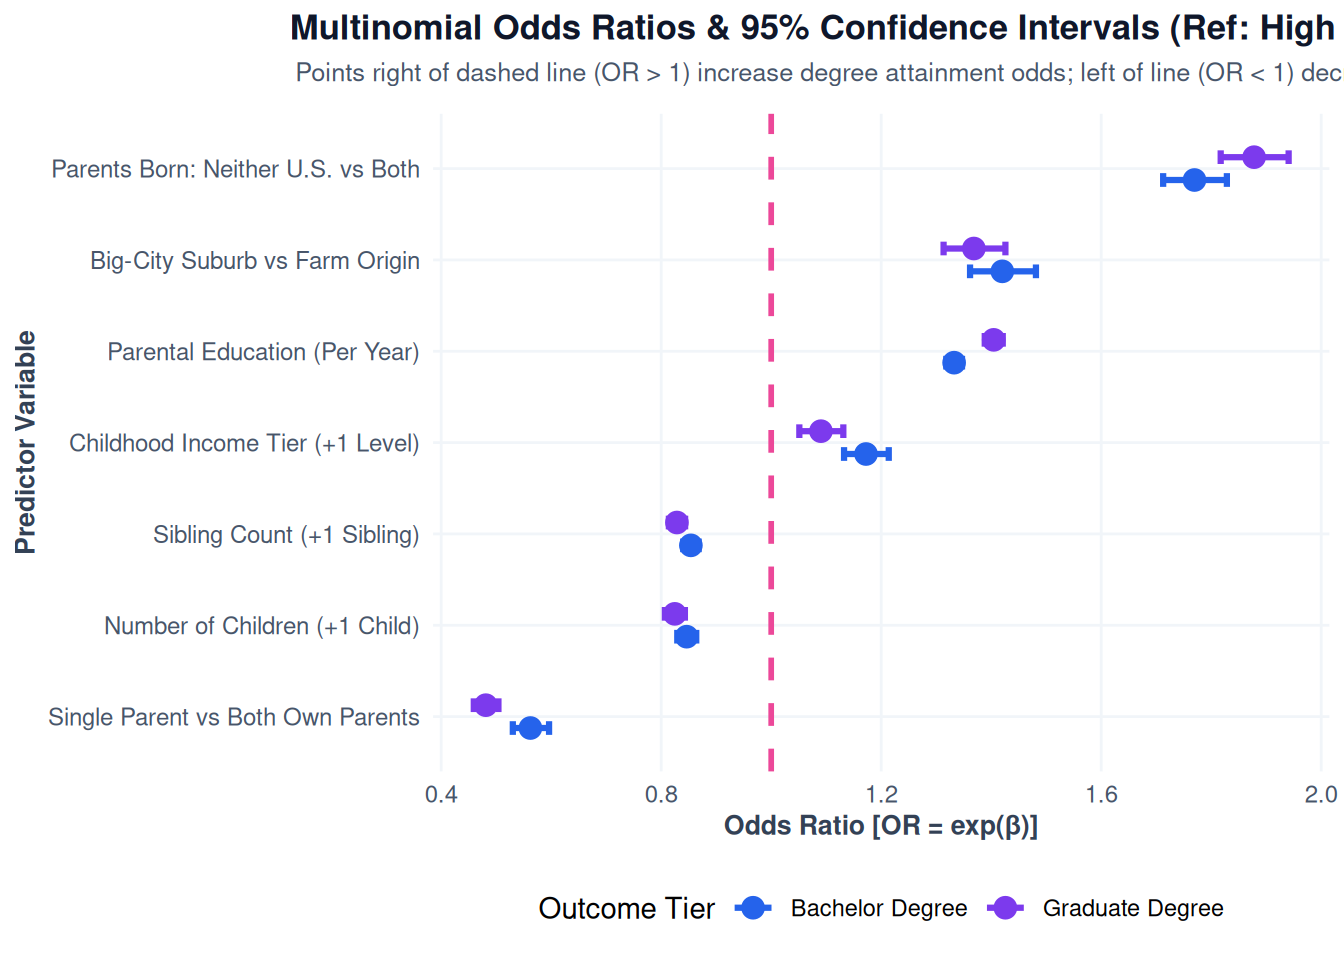
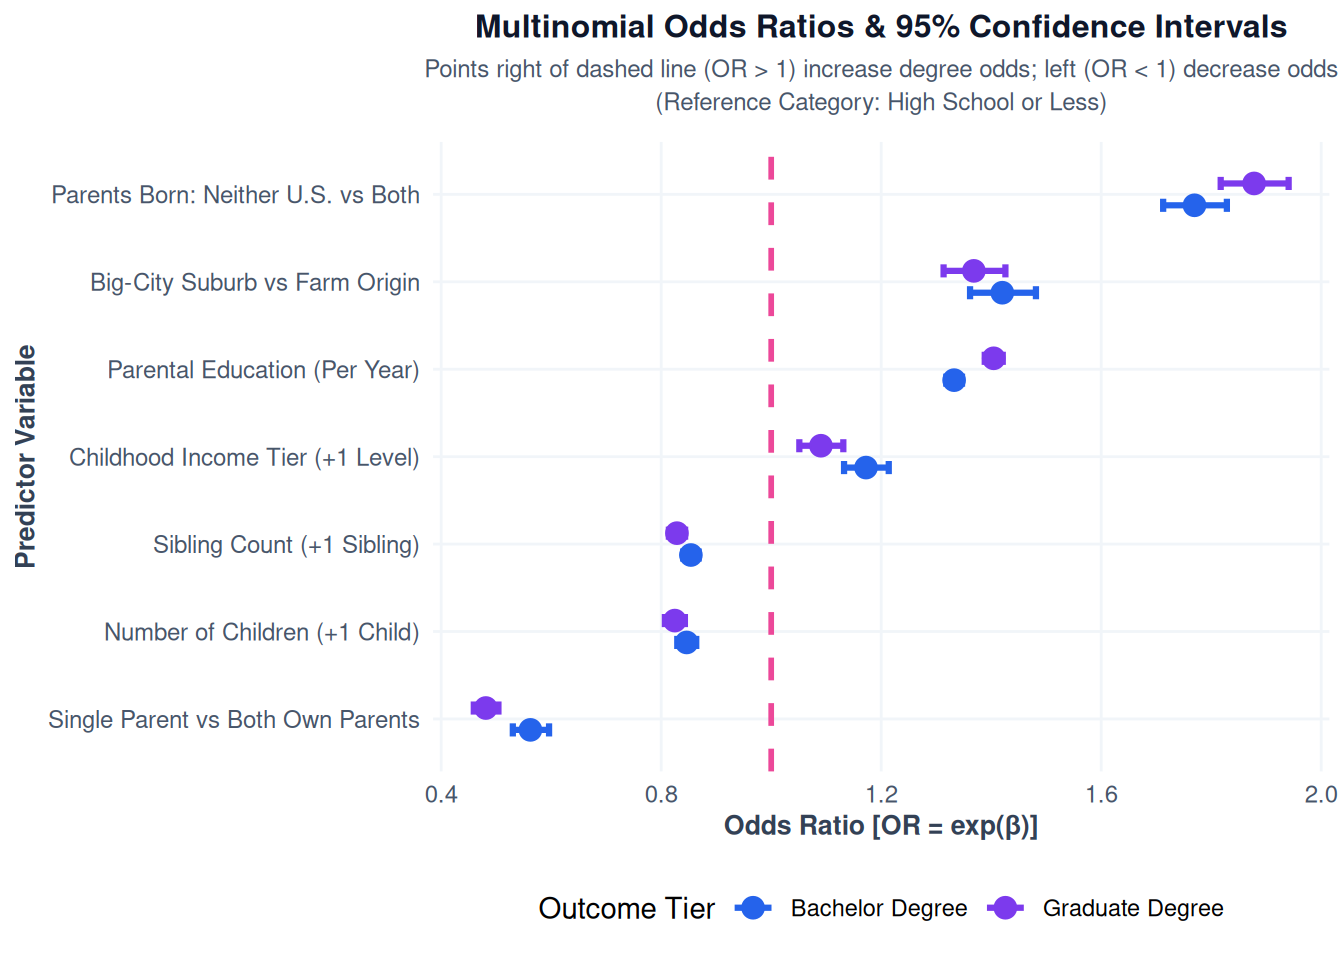
seventh version

diff --git a/_site/model.html b/_site/model.html
@@ -197,12 +197,12 @@ Formal Data Generating Mechanisms, Likelihood Ratio Tests, 95% Confidence Interv
 </section>
 <section id="model-estimation-95-confidence-intervals" class="level2">
 <h2 class="anchored" data-anchor-id="model-estimation-95-confidence-intervals">2. Model Estimation &amp; 95% Confidence Intervals</h2>
+<blockquote class="blockquote">
+<p><strong>Note</strong>: The following tables (3.2 &amp; 3.3) are shortened tables with only the most statistically significant covariates. The complete parameter table across all predictors and outcome tiers can be found in Section 4 of the <a href="./sources.html">Sources</a> tab.</p>
+</blockquote>
 <section id="final-multinomial-logistic-model-parameters" class="level3">
 <h3 class="anchored" data-anchor-id="final-multinomial-logistic-model-parameters">2.1 Final Multinomial Logistic Model Parameters</h3>
 <p>We estimate multinomial parameters and calculate Odds Ratios (<span class="math inline">\(\text{OR} = \exp(\beta)\)</span>) with exact 95% Confidence Intervals using <code>broom::tidy(conf.int = TRUE, exponentiate = TRUE)</code>.</p>
-<blockquote class="blockquote">
-<p><strong>Note</strong>: Table 3.2 below is a shortened summary displaying primary predictors for Bachelor’s degree attainment. The complete parameter table across all predictors and outcome tiers can be found in Section 4 of the <a href="./sources.html">Data Sources &amp; References</a> tab.</p>
-</blockquote>
 <div class="cell">
 <div class="cell-output-display">
 <table class="caption-top table table-sm table-striped small">
@@ -278,13 +278,12 @@ Formal Data Generating Mechanisms, Likelihood Ratio Tests, 95% Confidence Interv
 </table>
 </div>
 </div>
+<p><strong>What the Numbers Mean:</strong> Each Odds Ratio (OR) measures the association between a covariate and an outcome. An OR &gt; 1 indicates a higher likelihood of the outcome (specifically, a <span class="math inline">\((OR - 1) \times 100\%\)</span> increase), while an OR &lt; 1 indicates a lower likelihood.</p>
+<p><strong>Example:</strong> In this table, each additional year of parental education is associated with a 33.3% higher chance of attaining a Bachelor’s degree.</p>
 <hr>
 </section>
 <section id="ols-baseline-model-parameters" class="level3">
 <h3 class="anchored" data-anchor-id="ols-baseline-model-parameters">2.2 OLS Baseline Model Parameters</h3>
-<blockquote class="blockquote">
-<p><strong>Note</strong>: Table 3.3 below is a shortened summary of key parameters. The complete OLS model parameter table across all 19 background covariates can be found in Section 4 of the <a href="./sources.html">Data Sources &amp; References</a> tab.</p>
-</blockquote>
 <div class="cell">
 <div class="cell-output-display">
 <table class="caption-top table table-sm table-striped small">
@@ -352,12 +351,17 @@ Formal Data Generating Mechanisms, Likelihood Ratio Tests, 95% Confidence Interv
 </table>
 </div>
 </div>
+<p><strong>What the Numbers Mean:</strong> Each Estimate (<span class="math inline">\(\beta\)</span>) measures the slope between a covariate and the outcome. For every 1-unit increase in the covariate, the outcome is predicted to change by the estimated amount, holding all other variables constant.</p>
+<p><strong>Example:</strong> In this table, a 1-year increase in parental education is associated with 0.326 additional years of education.</p>
 <hr>
 </section>
 </section>
 <section id="visualizing-uncertainty" class="level2">
 <h2 class="anchored" data-anchor-id="visualizing-uncertainty">3. Visualizing Uncertainty</h2>
-<p>To evaluate parameter estimates and quantify uncertainty visually, we build a point-range error-bar plot displaying multinomial Odds Ratios (<span class="math inline">\(\text{OR} = \exp(\beta)\)</span>) alongside exact 95% Confidence Interval bounds for predicting <strong>Bachelor Degree</strong> and <strong>Graduate Degree</strong> attainment relative to High School baseline.</p>
+<p>To evaluate parameter estimates and quantify uncertainty visually, we construct point-range error-bar plots for both statistical models.</p>
+<section id="multinomial-logistic-model-uncertainty" class="level3">
+<h3 class="anchored" data-anchor-id="multinomial-logistic-model-uncertainty">3.1 Multinomial Logistic Model Uncertainty</h3>
+<p>Figure 3.1 illustrates the Odds Ratios (<span class="math inline">\(\text{OR} = \exp(\beta)\)</span>) and exact 95% Confidence Intervals for predicting <strong>Bachelor Degree</strong> and <strong>Graduate Degree</strong> attainment relative to the High School baseline tier.</p>
 <div class="cell">
 <div class="cell-output-display">
 <div class="quarto-figure quarto-figure-center">
@@ -370,6 +374,31 @@ Formal Data Generating Mechanisms, Likelihood Ratio Tests, 95% Confidence Interv
 </div>
 <hr>
 </section>
+<section id="ols-regression-model-uncertainty" class="level3">
+<h3 class="anchored" data-anchor-id="ols-regression-model-uncertainty">3.2 OLS Regression Model Uncertainty</h3>
+<p>Figure 3.2 displays continuous linear parameter estimates (<span class="math inline">\(\beta\)</span>) and 95% Confidence Intervals for predicting total completed schooling years (<span class="math inline">\(Y_{\text{years}}\)</span>). In linear OLS regression, the null baseline hypothesis corresponds to <span class="math inline">\(\beta = 0\)</span> (no linear effect on total schooling years).</p>
+<div class="cell">
+<div class="cell-output-display">
+<div class="quarto-figure quarto-figure-center">
+<figure class="figure">
+<p><img src="model_files/figure-html/ols-forest-plot-1.png" class="img-fluid figure-img" width="672"></p>
+<figcaption>Figure 3.2: OLS Linear Regression Parameter Estimates (β) &amp; 95% Confidence Intervals for Completed Schooling Years.</figcaption>
+</figure>
+</div>
+</div>
+</div>
+<hr>
+</section>
+<section id="how-combining-factors-influences-estimation-prediction-uncertainty" class="level3">
+<h3 class="anchored" data-anchor-id="how-combining-factors-influences-estimation-prediction-uncertainty">3.3 How Combining Factors Influences Estimation &amp; Prediction Uncertainty</h3>
+<ol type="1">
+<li><p><strong>Precision of OLS Continuous Parameters</strong>: Because our analysis utilizes a large national sample (<span class="math inline">\(N = 48,360\)</span>), individual linear slope parameters in the OLS model exhibit tight confidence bounds. This confirms that sampling noise is minimal and the direction of key socio-demographic effects is highly precise.</p></li>
+<li><p><strong>Multicollinearity &amp; Controlled Independent Effects</strong>: Socio-demographic origin traits are naturally correlated—parents with higher educational attainment also tend to earn higher relative household income and raise smaller families. By combining multiple factors simultaneously into a single multivariate specification, the model controls for confounding covariance.</p></li>
+<li><p><strong>Cumulative Prediction Uncertainty</strong>: When combining multiple predictors to generate individual point estimates (as demonstrated in Section 4), uncertainty accumulates across all model terms. While structural childhood variables account for significant macro-level educational inequality (achieving a <span class="math inline">\(72.3\%\)</span> degree classification accuracy), individual-level variance remains (<span class="math inline">\(\text{OLS } R^2 \approx 0.28\)</span>). This unaccounted variance represents unmeasured factors such as individual academic motivation, school quality, peer dynamics, and random life trajectory events.</p></li>
+</ol>
+<hr>
+</section>
+</section>
 <section id="the-dgm-in-action" class="level2">
 <h2 class="anchored" data-anchor-id="the-dgm-in-action">4. The DGM in Action</h2>
 <p>To demonstrate how our statistical model works in practice, we construct two contrasting individual profiles with different childhood socio-demographic backgrounds and use the multinomial model to predict their exact likelihood of achieving a Bachelor’s degree (and other degree tiers), alongside OLS continuous schooling predictions.</p>
@@ -378,9 +407,9 @@ Formal Data Generating Mechanisms, Likelihood Ratio Tests, 95% Confidence Interv
 <table class="caption-top table table-sm table-striped small">
 <caption>Table 3.4: Model-Predicted Educational Attainment Probabilities &amp; Expected Schooling Years for Two Individual Profiles</caption>
 <colgroup>
-<col style="width: 18%">
-<col style="width: 40%">
-<col style="width: 41%">
+<col style="width: 21%">
+<col style="width: 38%">
+<col style="width: 39%">
 </colgroup>
 <thead>
 <tr class="header">
@@ -392,8 +421,8 @@ Formal Data Generating Mechanisms, Likelihood Ratio Tests, 95% Confidence Interv
 <tbody>
 <tr class="odd">
 <td style="text-align: left;">Childhood Background Characteristics</td>
-<td style="text-align: left;">College-educated parents (16 yrs), Income Far Above Avg (Tier 5), Two parents, Suburban, 1 Sibling</td>
-<td style="text-align: left;">Middle-school parents (9 yrs), Income Far Below Avg (Tier 1), Single parent, Farm origin, 4 Siblings</td>
+<td style="text-align: left;">College-educated parents, Income Far Above Avg, Two parents, Suburban, 1 Sibling</td>
+<td style="text-align: left;">Middle-school parents, Income Far Below Avg, Single parent, Farm origin, 4 Siblings</td>
 </tr>
 <tr class="even">
 <td style="text-align: left;">High School or Less (Multinomial Probability)</td>
@@ -425,8 +454,8 @@ Formal Data Generating Mechanisms, Likelihood Ratio Tests, 95% Confidence Interv
 </div>
 </div>
 <ul>
-<li><strong>Individual A (College-educated parents, Income Tier 5, Two parents, Suburban origin, 1 sibling)</strong>: Driven by high parental education (16 years) and economic stability, this individual has a <strong>39.7% chance</strong> of attaining a Bachelor’s degree, an overall <strong>67.9% chance</strong> of completing college (Bachelor’s or Graduate), and an expected <strong>16.7 total years of schooling</strong> from the OLS model.</li>
-<li><strong>Individual B (Middle-school parents, Income Tier 1, Single parent, Farm origin, 4 siblings)</strong>: Facing cumulative socio-economic headwinds, this individual has only a <strong>5.1% chance</strong> of attaining a Bachelor’s degree (<strong>70.4% chance</strong> of stopping at High School or less), and an expected <strong>11.9 total years of schooling</strong> from the OLS model.</li>
+<li><p><strong>Individual A</strong>: Driven by high parental education (16 years) and economic stability, this individual has a <strong>39.7% chance</strong> of attaining a Bachelor’s degree, an overall <strong>67.9% chance</strong> of completing college (Bachelor’s or Graduate), and an expected <strong>16.7 total years of schooling</strong> from the OLS model.</p></li>
+<li><p><strong>Individual B</strong>: Facing cumulative socio-economic headwinds, this individual has only a <strong>5.1% chance</strong> of attaining a Bachelor’s degree (<strong>70.4% chance</strong> of stopping at High School or less), and an expected <strong>11.9 total years of schooling</strong> from the OLS model.</p></li>
 </ul>
 <hr>
 </section>
@@ -439,7 +468,7 @@ Formal Data Generating Mechanisms, Likelihood Ratio Tests, 95% Confidence Interv
 <p>To evaluate how accurately our model predicts educational outcomes, we test its performance across the <span class="math inline">\(N = 48,360\)</span> survey respondents:</p>
 <ul>
 <li><strong>College Degree Prediction Accuracy (72.3%)</strong>: When predicting whether an individual will successfully earn a <strong>Bachelor’s degree or higher</strong> versus a non-college path, our model achieves <strong>72.3% overall accuracy</strong>.</li>
-<li><strong>What This Means in Plain English</strong>: Imagine taking a room of 100 people. By only looking at basic background information from their childhood—such as their parents’ education level, household income tier, family structure, and sibling count—our model correctly predicts whether <strong>72 out of 100 people</strong> will graduate from college. In social science, where human decisions and personal choices vary widely, a <strong>72.3% accuracy rate</strong> confirms that childhood background factors exert a dominant influence on lifetime educational attainment.</li>
+<li><strong>What This Means</strong>: Imagine taking a room of 100 people. By only looking at basic background information from their childhood—such as their parents’ education level, household income tier, family structure, and sibling count—our model correctly predicts whether <strong>72 out of 100 people</strong> will graduate from college. In social science, where human decisions and personal choices vary widely, a <strong>72.3% accuracy rate</strong> confirms that childhood background factors exert a dominant influence on lifetime educational attainment.</li>
 </ul>
 </section>
 <section id="answer-to-central-predictive-question" class="level4">
@@ -450,19 +479,19 @@ Formal Data Generating Mechanisms, Likelihood Ratio Tests, 95% Confidence Interv
 <ol type="1">
 <li><strong>Parental Education is the Single Strongest Predictor</strong>:
 <ul>
-<li><strong>Accuracy &amp; Effect Size</strong>: Every additional year of parental schooling increases an individual’s odds of earning a Bachelor’s degree by <strong>33.3%</strong> (<span class="math inline">\(\text{OR} = 1.333\)</span>, <span class="math inline">\(95\%\text{ CI: }[1.319, 1.348]\)</span>, <span class="math inline">\(p &lt; 0.001\)</span>) and a Graduate degree by <strong>40.5%</strong> (<span class="math inline">\(\text{OR} = 1.405\)</span>, <span class="math inline">\(95\%\text{ CI: }[1.388, 1.423]\)</span>, <span class="math inline">\(p &lt; 0.001\)</span>).</li>
-<li><strong>Continuous Schooling Impact</strong>: In the OLS linear model, each additional year of parental education directly increases completed schooling by <strong>+0.326 years</strong> (<span class="math inline">\(95\%\text{ CI: }[0.318, 0.333]\)</span>, <span class="math inline">\(p &lt; 0.001\)</span>).</li>
+<li><strong>Multinomial Degree Completion Odds</strong>: Every additional year of parental schooling increases an individual’s odds of earning a Bachelor’s degree by <strong>33.3%</strong> (<span class="math inline">\(\text{OR} = 1.333\)</span>, <span class="math inline">\(95\%\text{ CI: }[1.319, 1.348]\)</span>, <span class="math inline">\(p &lt; 0.001\)</span>) and a Graduate degree by <strong>40.5%</strong> (<span class="math inline">\(\text{OR} = 1.405\)</span>, <span class="math inline">\(95\%\text{ CI: }[1.388, 1.423]\)</span>, <span class="math inline">\(p &lt; 0.001\)</span>).</li>
+<li><strong>OLS Continuous Schooling Impact</strong>: In the linear model, each additional year of parental education directly increases completed schooling by <strong>+0.326 years</strong> (<span class="math inline">\(95\%\text{ CI: }[0.318, 0.333]\)</span>, <span class="math inline">\(p &lt; 0.001\)</span>).</li>
 </ul></li>
 <li><strong>Childhood Household Income &amp; Family Dynamics</strong>:
 <ul>
-<li><strong>Relative Household Income</strong>: Higher childhood relative income (<code>incom16</code>) significantly increases Bachelor’s degree completion odds by <strong>16.8% per income tier</strong> (<span class="math inline">\(\text{OR} = 1.168\)</span>, <span class="math inline">\(95\%\text{ CI: }[1.129, 1.209]\)</span>, <span class="math inline">\(p &lt; 0.001\)</span>) and adds <strong>+0.129 years</strong> of schooling (<span class="math inline">\(p &lt; 0.001\)</span>).</li>
-<li><strong>Single-Parent Family Structure</strong>: Growing up in a single-parent family reduces Bachelor’s degree odds by <strong>43.8%</strong> (<span class="math inline">\(\text{OR} = 0.562\)</span>, <span class="math inline">\(95\%\text{ CI: }[0.530, 0.596]\)</span>, <span class="math inline">\(p &lt; 0.001\)</span>) and reduces total completed schooling by <strong>-0.607 years</strong> (<span class="math inline">\(p &lt; 0.001\)</span>).</li>
-<li><strong>Sibling Size</strong>: Each additional sibling reduces Bachelor’s degree completion odds by <strong>14.6%</strong> (<span class="math inline">\(\text{OR} = 0.854\)</span>, <span class="math inline">\(95\%\text{ CI: }[0.840, 0.868]\)</span>, <span class="math inline">\(p &lt; 0.001\)</span>) and reduces schooling by <strong>-0.182 years per sibling</strong> (<span class="math inline">\(p &lt; 0.001\)</span>).</li>
+<li><strong>Relative Household Income</strong>: Higher childhood relative income significantly increases Bachelor’s degree completion odds by <strong>16.8% per income tier</strong> (<span class="math inline">\(\text{OR} = 1.168\)</span>, <span class="math inline">\(95\%\text{ CI: }[1.129, 1.209]\)</span>, <span class="math inline">\(p &lt; 0.001\)</span>) and adds <strong>+0.129 years</strong> of completed schooling (<span class="math inline">\(95\%\text{ CI: }[0.101, 0.157]\)</span>, <span class="math inline">\(p &lt; 0.001\)</span>).</li>
+<li><strong>Single-Parent Family Structure</strong>: Growing up in a single-parent family reduces Bachelor’s degree completion odds by <strong>43.8%</strong> (<span class="math inline">\(\text{OR} = 0.562\)</span>, <span class="math inline">\(95\%\text{ CI: }[0.530, 0.596]\)</span>, <span class="math inline">\(p &lt; 0.001\)</span>) and reduces total completed schooling by <strong>-0.607 years</strong> (<span class="math inline">\(95\%\text{ CI: }[-0.672, -0.541]\)</span>, <span class="math inline">\(p &lt; 0.001\)</span>).</li>
+<li><strong>Sibling Size</strong>: Each additional sibling reduces Bachelor’s degree completion odds by <strong>14.6%</strong> (<span class="math inline">\(\text{OR} = 0.854\)</span>, <span class="math inline">\(95\%\text{ CI: }[0.840, 0.868]\)</span>, <span class="math inline">\(p &lt; 0.001\)</span>) and reduces total schooling by <strong>-0.182 years per sibling</strong> (<span class="math inline">\(95\%\text{ CI: }[-0.195, -0.170]\)</span>, <span class="math inline">\(p &lt; 0.001\)</span>).</li>
 </ul></li>
 <li><strong>Geographic &amp; Immigrant Origin Dynamics</strong>:
 <ul>
-<li><strong>Suburban &amp; Large City Origins</strong>: Growing up in a suburban environment increases Bachelor’s degree odds by <strong>41.7%</strong> compared to rural origins (<span class="math inline">\(\text{OR} = 1.417\)</span>, <span class="math inline">\(95\%\text{ CI: }[1.358, 1.479]\)</span>, <span class="math inline">\(p &lt; 0.001\)</span>) and adds <strong>+0.246 years</strong> of completed schooling.</li>
-<li><strong>Parental Immigrant Status</strong>: Children of immigrant parents whose parents were not born in the U.S. exhibit <strong>77.1% higher odds</strong> of completing a Bachelor’s degree (<span class="math inline">\(\text{OR} = 1.771\)</span>, <span class="math inline">\(95\%\text{ CI: }[1.714, 1.830]\)</span>, <span class="math inline">\(p &lt; 0.001\)</span>) and gain <strong>+0.508 years</strong> of total schooling.</li>
+<li><strong>Suburban &amp; Large City Origins</strong>: Growing up in a suburban environment increases Bachelor’s degree odds by <strong>41.7%</strong> compared to rural origins (<span class="math inline">\(\text{OR} = 1.417\)</span>, <span class="math inline">\(95\%\text{ CI: }[1.358, 1.479]\)</span>, <span class="math inline">\(p &lt; 0.001\)</span>) and adds <strong>+0.246 years</strong> of completed schooling (<span class="math inline">\(95\%\text{ CI: }[0.163, 0.329]\)</span>, <span class="math inline">\(p &lt; 0.001\)</span>).</li>
+<li><strong>Parental Immigrant Status</strong>: Children of immigrant parents whose parents were not born in the U.S. exhibit <strong>77.1% higher odds</strong> of completing a Bachelor’s degree (<span class="math inline">\(\text{OR} = 1.771\)</span>, <span class="math inline">\(95\%\text{ CI: }[1.714, 1.830]\)</span>, <span class="math inline">\(p &lt; 0.001\)</span>) and gain <strong>+0.508 years</strong> of total schooling (<span class="math inline">\(95\%\text{ CI: }[0.401, 0.615]\)</span>, <span class="math inline">\(p &lt; 0.001\)</span>).</li>
 </ul></li>
 </ol>
 </section>
